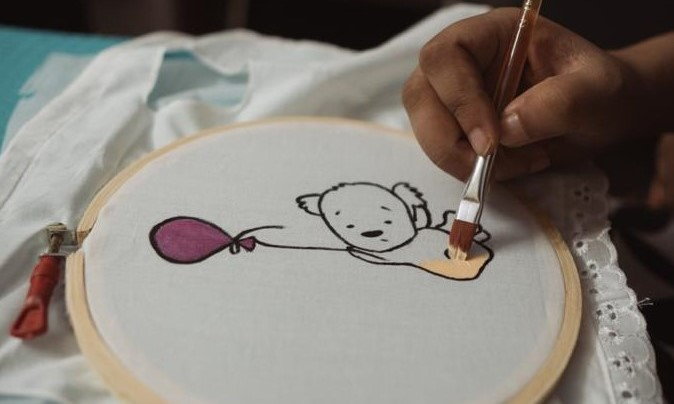
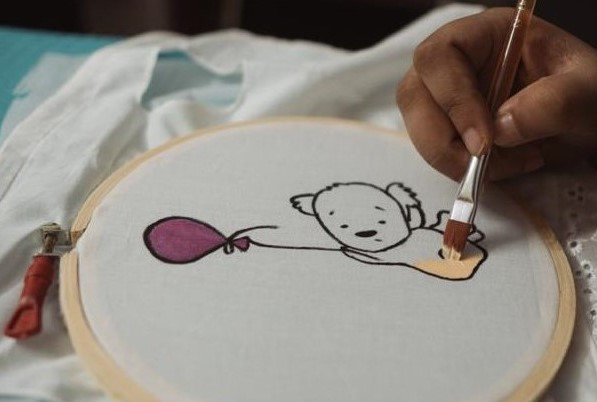
Updates

diff --git a/assets/css/style.css b/assets/css/style.css
@@ -247,7 +247,7 @@ h1, h2, h3, h4, h5, h6 {
 #hero {
   width: 100%;
   height: 100vh;
-  background: url("../img/Paint.jpeg") top right no-repeat;
+  background: url("../img/Painting.jpeg") top right no-repeat;
   background-size: cover;
   position: relative;
 }
